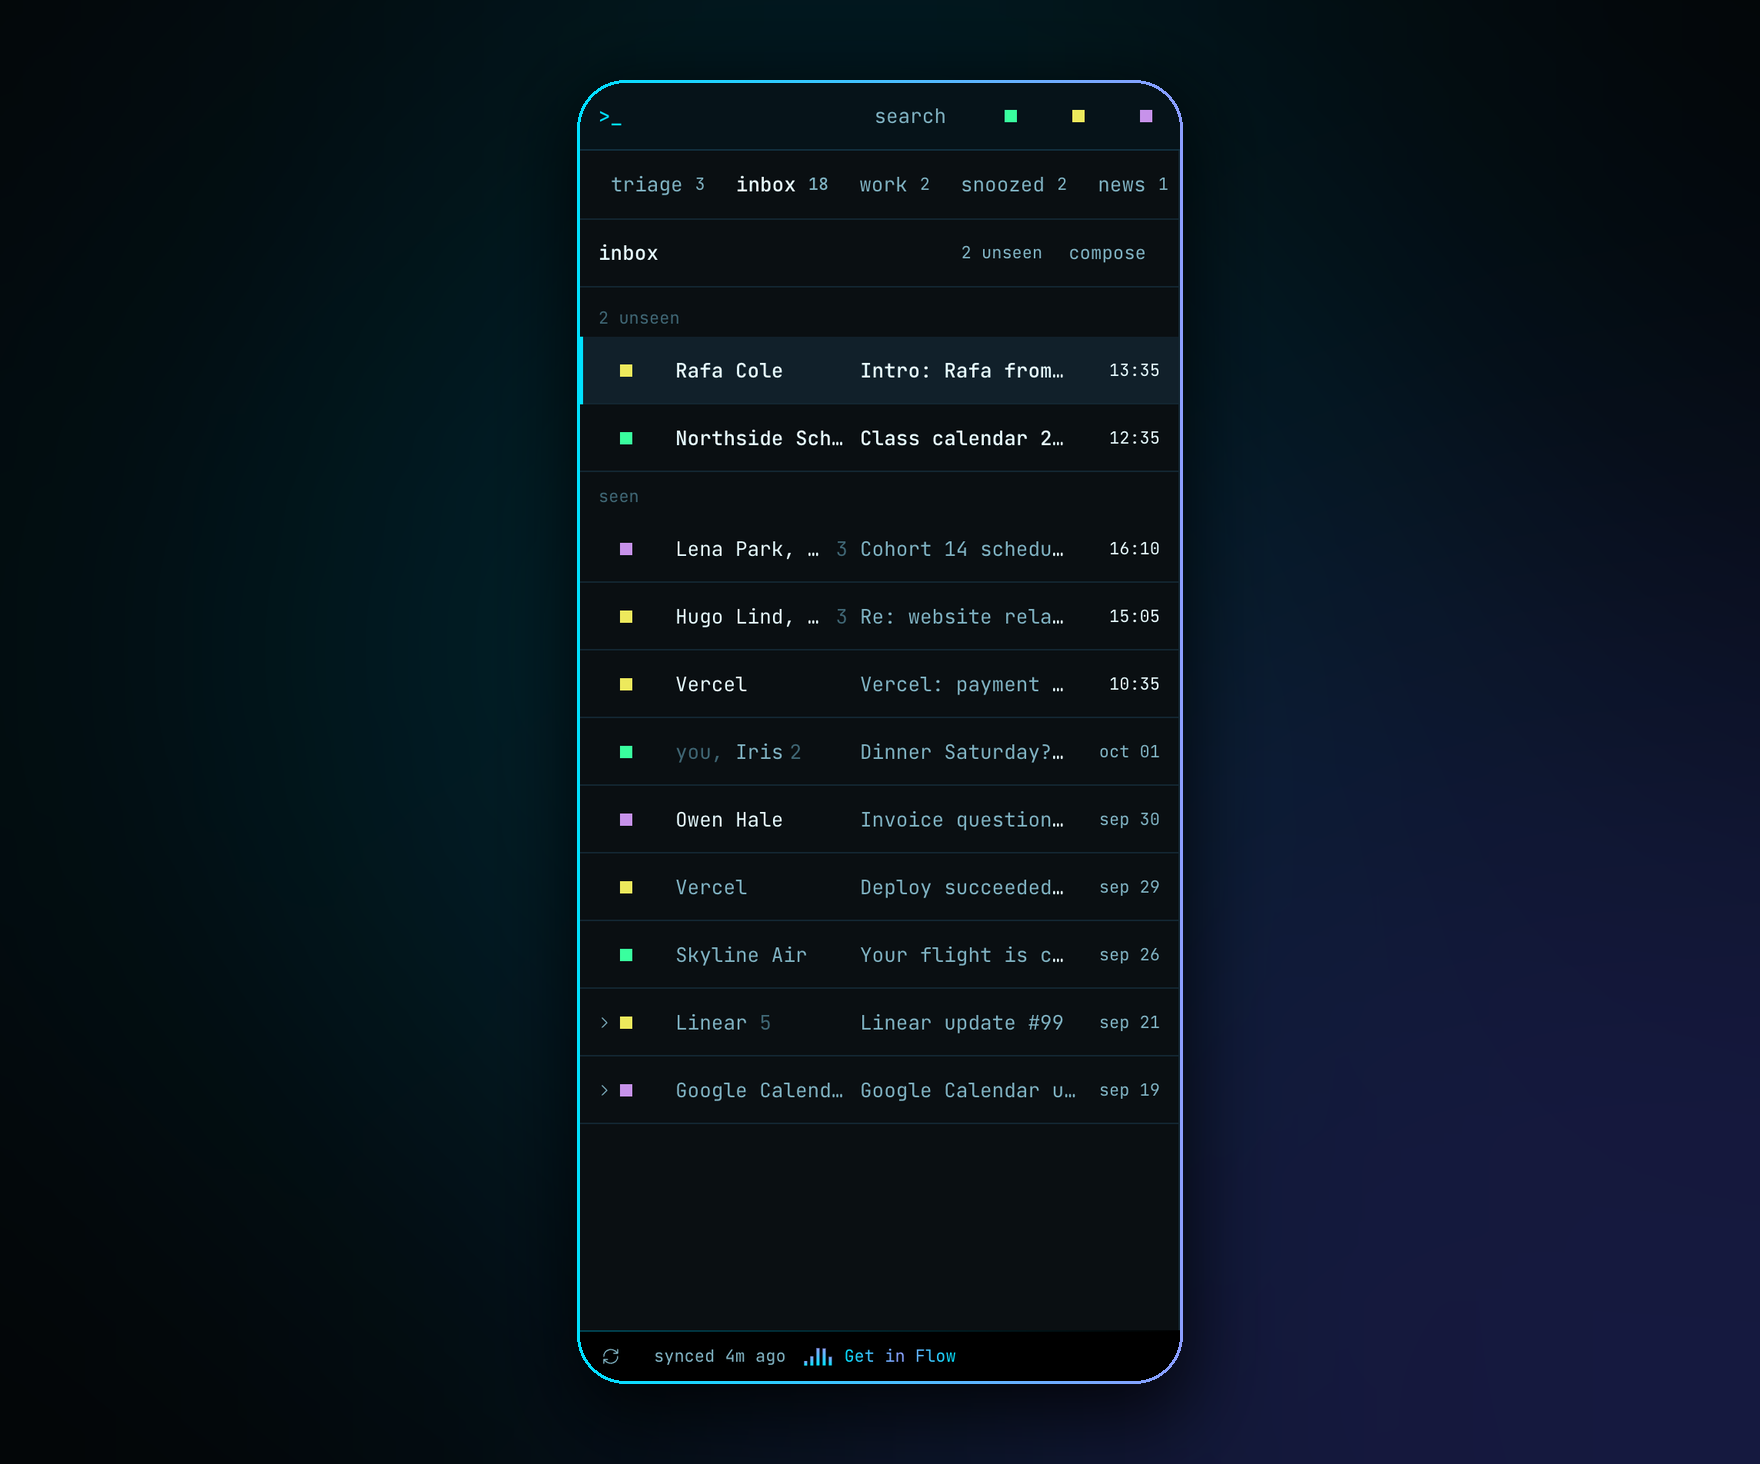
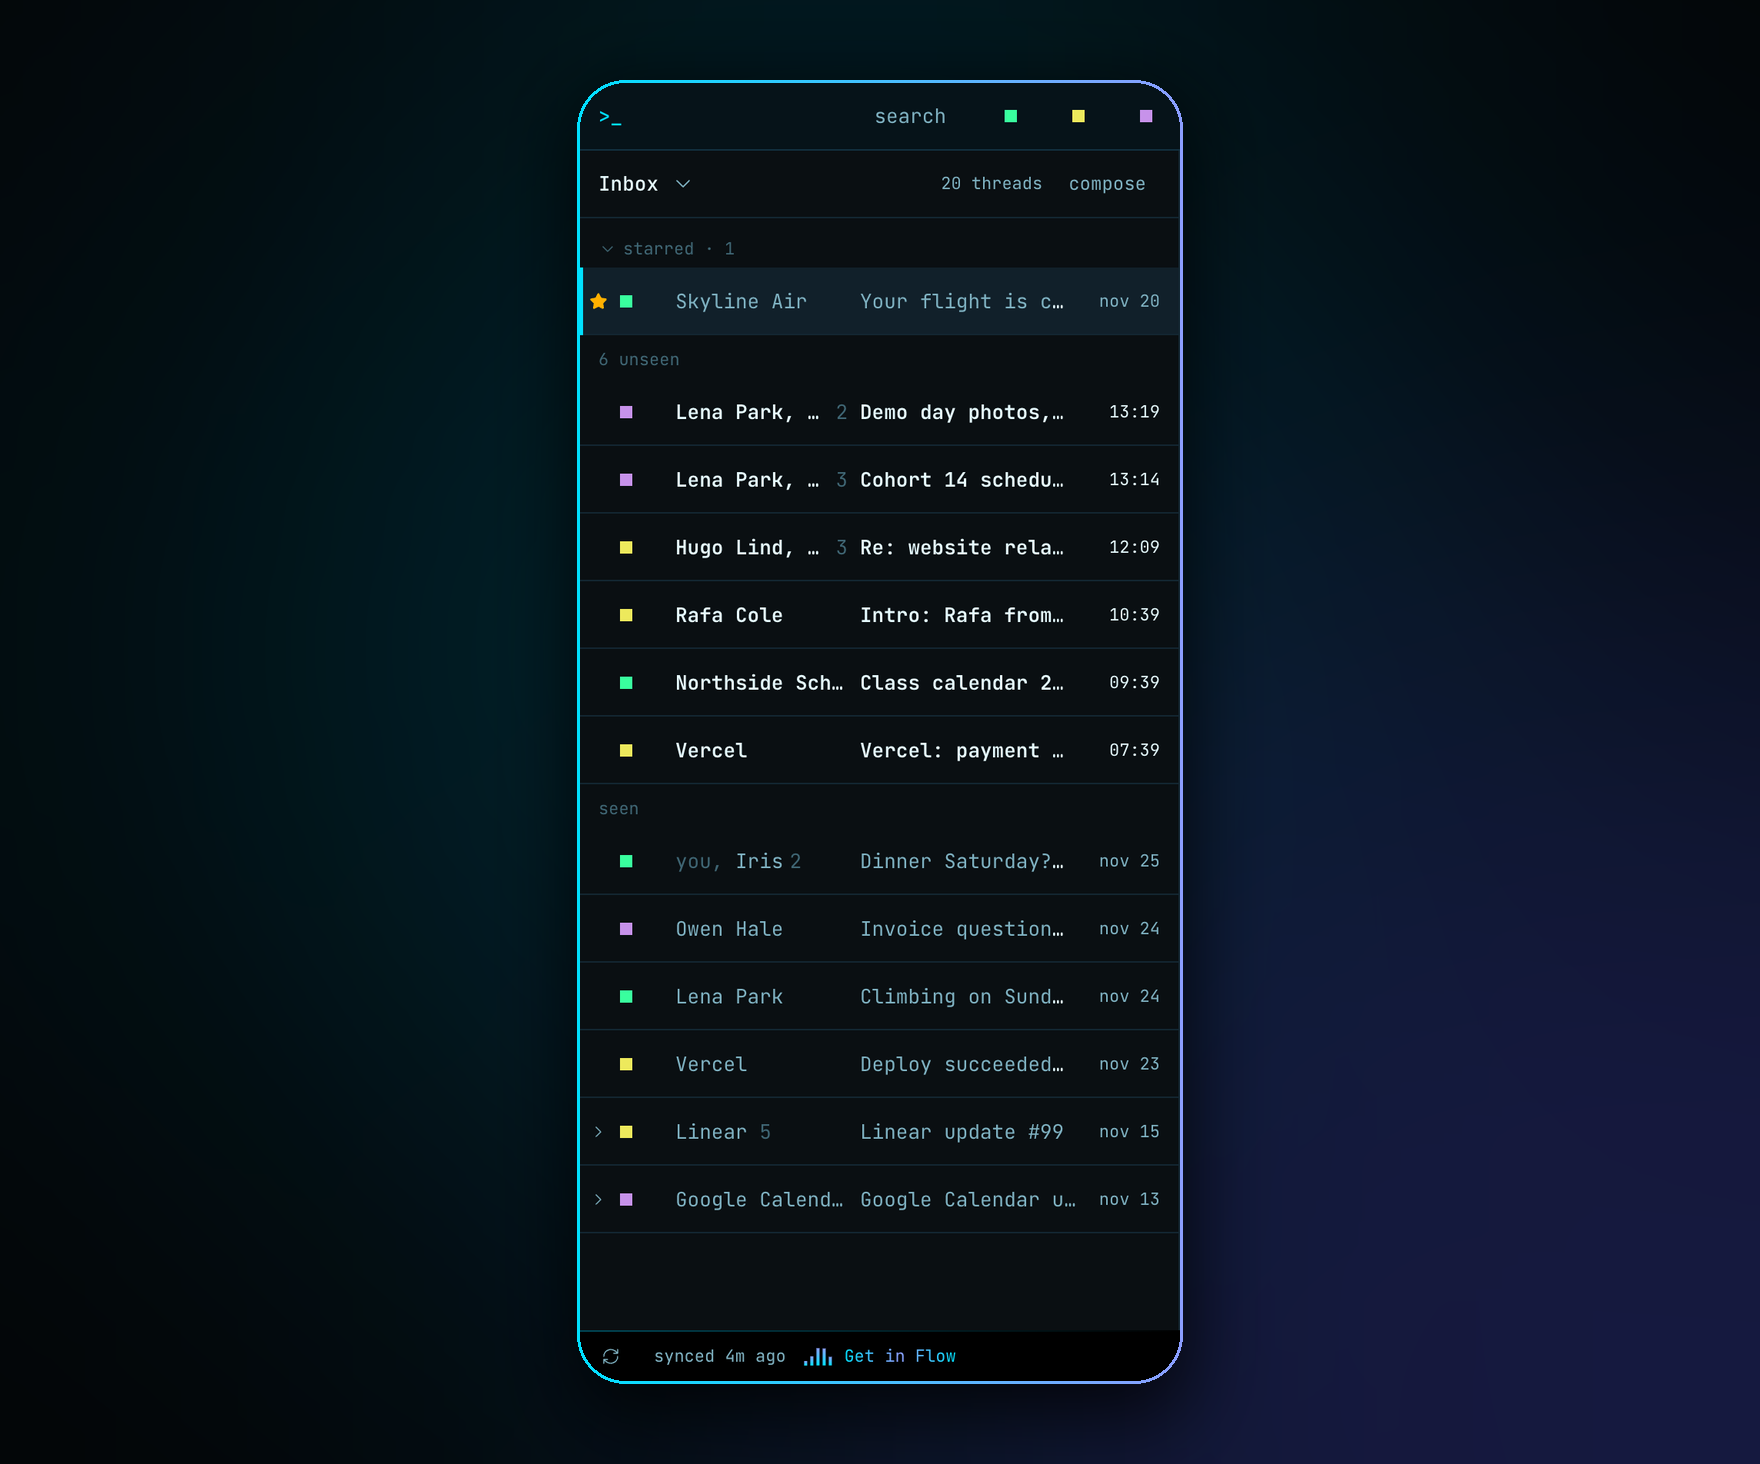
Keep hidden stars from catching taps, fix the doubled group chevron (#128)
- On touch screens an unstarred row's gutter star is invisible, so it no
  longer takes taps: they open the thread.
- Folded group rows drew two chevrons since the gutter expand button came
  in; keep the button's.
- Re-shoot the README phone screenshot with the view picker.

diff --git a/components/mail/thread-list.tsx b/components/mail/thread-list.tsx
@@ -195,7 +195,8 @@ export function ThreadList({
           label={t.subject}
           className={cn(
             "absolute inset-y-0 left-0 w-6",
-            !t.starred && "opacity-0 group-hover/row:opacity-100 focus-visible:opacity-100",
+            // Touch has no hover to reveal it, so an unseen star must not catch taps meant for the row.
+            !t.starred && "opacity-0 group-hover/row:opacity-100 focus-visible:opacity-100 pointer-coarse:pointer-events-none",
           )}
         />
       )}
@@ -332,7 +333,7 @@ function ClusterRow({
         <span className="min-w-0 flex-1 truncate">{label}</span>
         <span className="shrink-0 tabular-nums">{threads.length}</span>
       </button>
-      <button type="button" aria-label="collapse group" aria-expanded onClick={onExpand} className="absolute inset-y-0 left-0 z-20 flex w-6 items-center justify-center text-text-muted"><Chevron aria-hidden className="size-3" /></button>
+      <button type="button" aria-label="collapse group" aria-expanded onClick={onExpand} className="absolute inset-y-0 left-0 z-20 flex w-6 items-center justify-center text-text-muted"><Chevron aria-hidden className="size-3" strokeWidth={1.5} /></button>
       </div>
     );
   }
@@ -351,7 +352,6 @@ function ClusterRow({
         )}
       >
         <span className="sr-only">group of {threads.length} threads, {fresh} unseen, newest {head.subject}; </span>
-        <Chevron aria-hidden className="absolute left-2 size-3 text-text-muted" strokeWidth={1.5} />
         <AccountSlot colors={accountColors} slots={accountSlots} />
         <span className={cn("w-sender shrink-0 truncate @min-[560px]:w-judged", fresh ? "font-semibold text-text" : "text-text-muted")}>
           {label} <span className="font-normal text-text-dim tabular-nums">{threads.length}</span>
@@ -360,7 +360,7 @@ function ClusterRow({
         <span className="flex-1 @min-[320px]:hidden" />
         <Time iso={head.lastMessageAt} className="min-w-time shrink-0 text-right text-11 tabular-nums text-text-muted" />
       </button>
-      {picking ? <PickBox checked={selected} label={label} onToggle={() => onToggle(false)} /> : <button type="button" aria-label="expand group" aria-expanded={false} onClick={onExpand} className="absolute inset-y-0 left-0 z-20 flex w-6 items-center justify-center text-text-muted"><Chevron aria-hidden className="size-3" /></button>}
+      {picking ? <PickBox checked={selected} label={label} onToggle={() => onToggle(false)} /> : <button type="button" aria-label="expand group" aria-expanded={false} onClick={onExpand} className="absolute inset-y-0 left-0 z-20 flex w-6 items-center justify-center text-text-muted"><Chevron aria-hidden className="size-3" strokeWidth={1.5} /></button>}
     </div>
   );
 }

diff --git a/DESIGN.md b/DESIGN.md
@@ -142,7 +142,7 @@ Account identity uses hue, not a full palette: one hue per account, chosen at se
   - Long lists: the header's 11px `--text-muted` tabular count describes every thread in the filtered view, including rows on later pages and members of folded groups. At the end of a list with more rows, a full-width `h-row` loading row says `loading more threads…` in 11px `--text-dim`, with a top `--border` hairline. Loading also starts when the keyboard steps past the last loaded row. On failure the same row says `couldn't load threads · retry`, with `retry` as a button in `--accent`.
   - Collapsed (default): one row standing for the group, in the thread row's columns. A 12px chevron in the left gutter, the account slot, the label (`github · owner/repo`, else the sender name) in the sender column followed by the thread count in `--text-dim` (`Neon 2`), the newest subject filling the rest (hidden when the list is under 320px), the newest time. Lit like a thread row: label and subject at 600 in `--text` when any thread is unseen, both `--text-muted` otherwise. The chevron is what says group. It is one keyboard stop, focused like a thread row. Thread actions on it (archive, snooze, delete, …) act on every thread in the group, with one undo. A click on the row picks or unpicks every thread in the group, shift+click extends the range through it (see Selection). Enter, or a click on the gutter chevron, opens it up. While anything is picked the checkbox takes the gutter in place of the chevron, so the group opens from Enter only until the picks are cleared.
   - Open: a 32px header in 11px `--text-muted` (down chevron, label, count), then the group's threads indented to 32px with a 1px `--border` guide line at 16px. A click on the header picks or unpicks the group's threads like the collapsed row; the down chevron in the gutter collapses it. Opening a thread inside a group keeps the group open.
-- Star: lucide `Star`, 12px, stroke 1.5. Starred: filled, `--warning`; amber is the colour mail clients give a star, and on a row it only otherwise means `overdue`. Not starred: an outline in `--text-dim`, `--text` on hover, `--accent` on keyboard focus. On a thread row it sits centred in the 24px left gutter, shown always when starred and on row hover or focus when not; while rows are picked the checkbox takes the gutter. In the reading pane meta line it follows the bucket badge, always shown.
+- Star: lucide `Star`, 12px, stroke 1.5. Starred: filled, `--warning`; amber is the colour mail clients give a star, and on a row it only otherwise means `overdue`. Not starred: an outline in `--text-dim`, `--text` on hover, `--accent` on keyboard focus. On a thread row it sits centred in the 24px left gutter, shown always when starred and on row hover or focus when not (on touch screens, with no hover, an unstarred row's gutter takes no taps: they open the thread); while rows are picked the checkbox takes the gutter. In the reading pane meta line it follows the bucket badge, always shown.
 - Starred section: a list holding starred threads opens with them, under a `starred · n` header styled and folding like the project sections (folds remembered per view), newest star first, never grouped with machine mail. The unseen and seen labels, and Work's time groups, start below it. Sent and the digest have no starred section.
 - Digest view: today's briefing on top, then the threads it talks about. The briefing is a section on `--surface` under the list header: an 11px `--text-muted` line (`today`, the date right-aligned), Claude's 2 to 5 lines in `--text`, then `last 24 hours: inbox 4 · news 6 · …` in 11px `--text-muted`, a hairline under it. Before the day's briefing is made there is none, never yesterday's. Below it, the usual thread rows under group labels, in order: `needs reply · 2`, `deadlines · 1`, `triage waiting · 3`, `stale in work · 5`. A section with no threads has no label. Rows carry why they are there: the stale badge (`work 31d`) or the deadline badge.
 - Project view: a bucket view at `/p/<slug>`, headed by the project's name. Its list is in three sections after any starred ones, each headed by an 11px `--text-dim` button with a chevron, its name and count: `to check · n` (threads sorting asks about), `in the project · n` (its live threads, unseen on top), `archived · n` (its history; archive keeps a thread there). A click folds a section to its header; folds are remembered per project in the browser, a folded section keeps the thread being read, and the keyboard skips folded rows. The bucket badge in the reading pane shows the project's name, and the bucket menu lists the projects after work, keyed `1` to `9`. Moving to a bucket takes a thread out of its project.

diff --git a/README.md b/README.md
@@ -72,7 +72,7 @@ The status line has a radio. Hover it, pick a station, and focus music plays whi
 
 ### In your pocket
 
-<img src="docs/readme/phone.png" alt="email-flow on a phone: bucket tabs and a one-line thread list" width="900">
+<img src="docs/readme/phone.png" alt="email-flow on a phone: a view picker over a one-line thread list" width="900">
 
 On the phone it's a home-screen web app for reading and quick replies. Heavy triage stays on the desktop.
 
